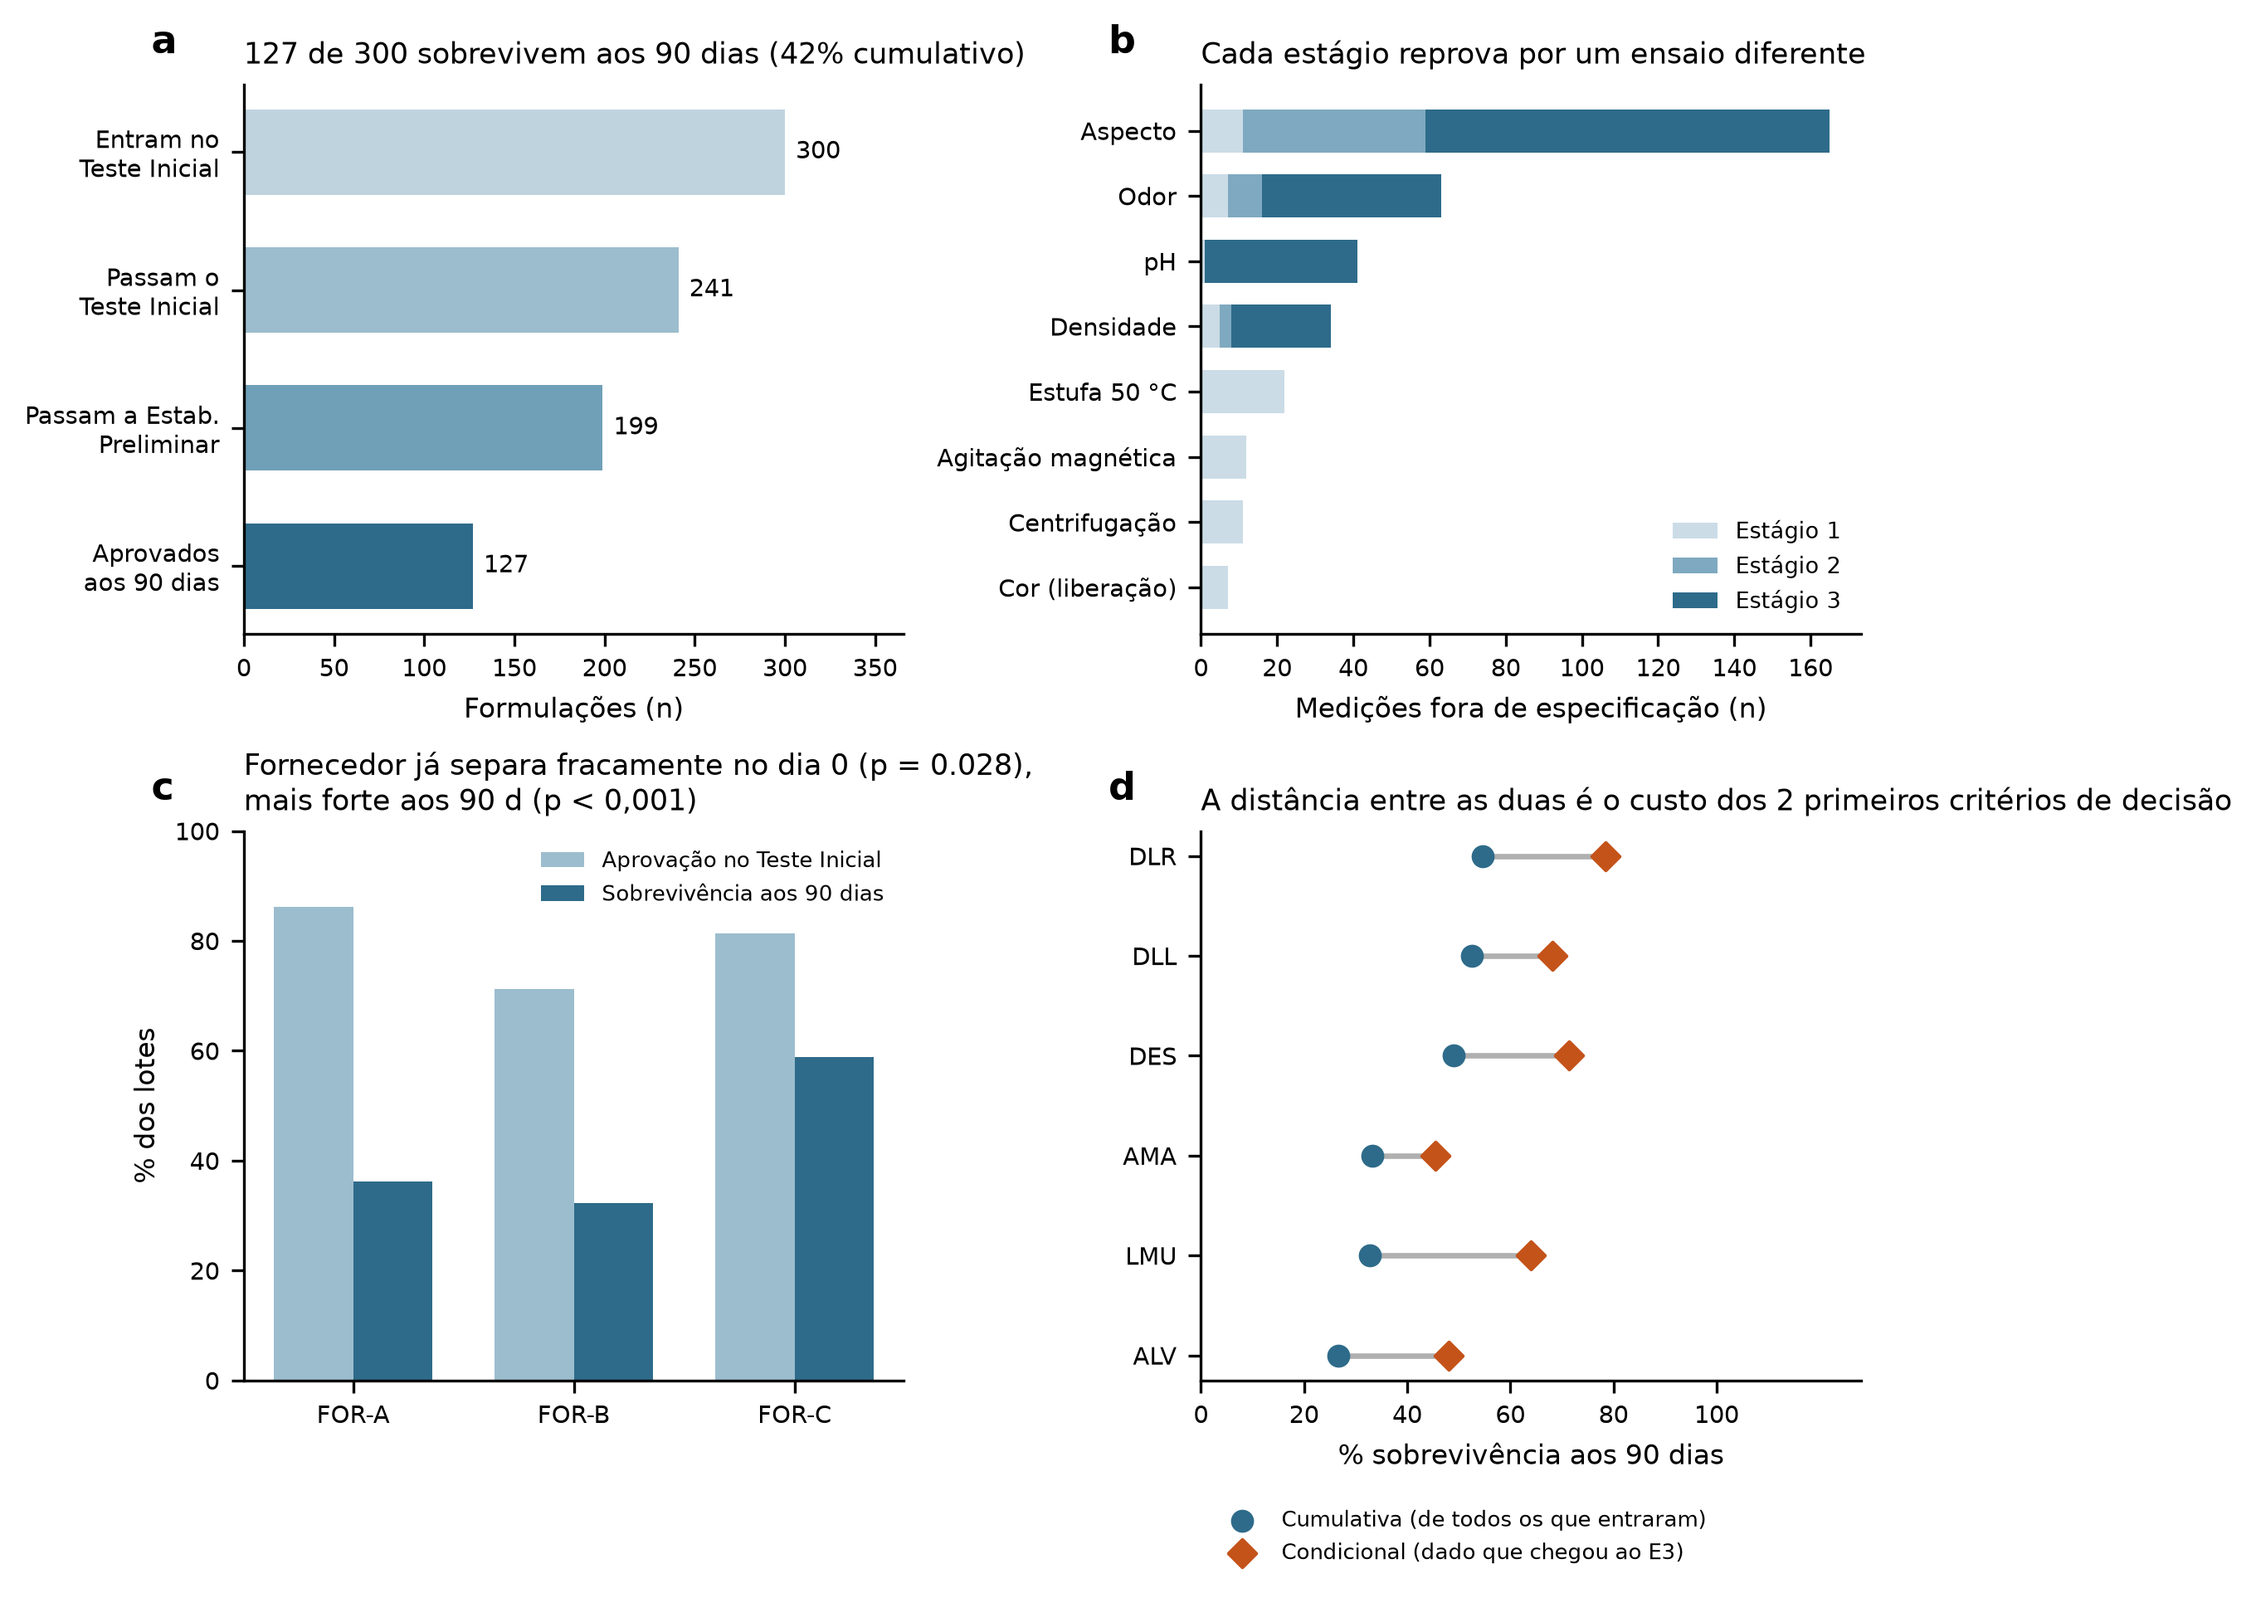
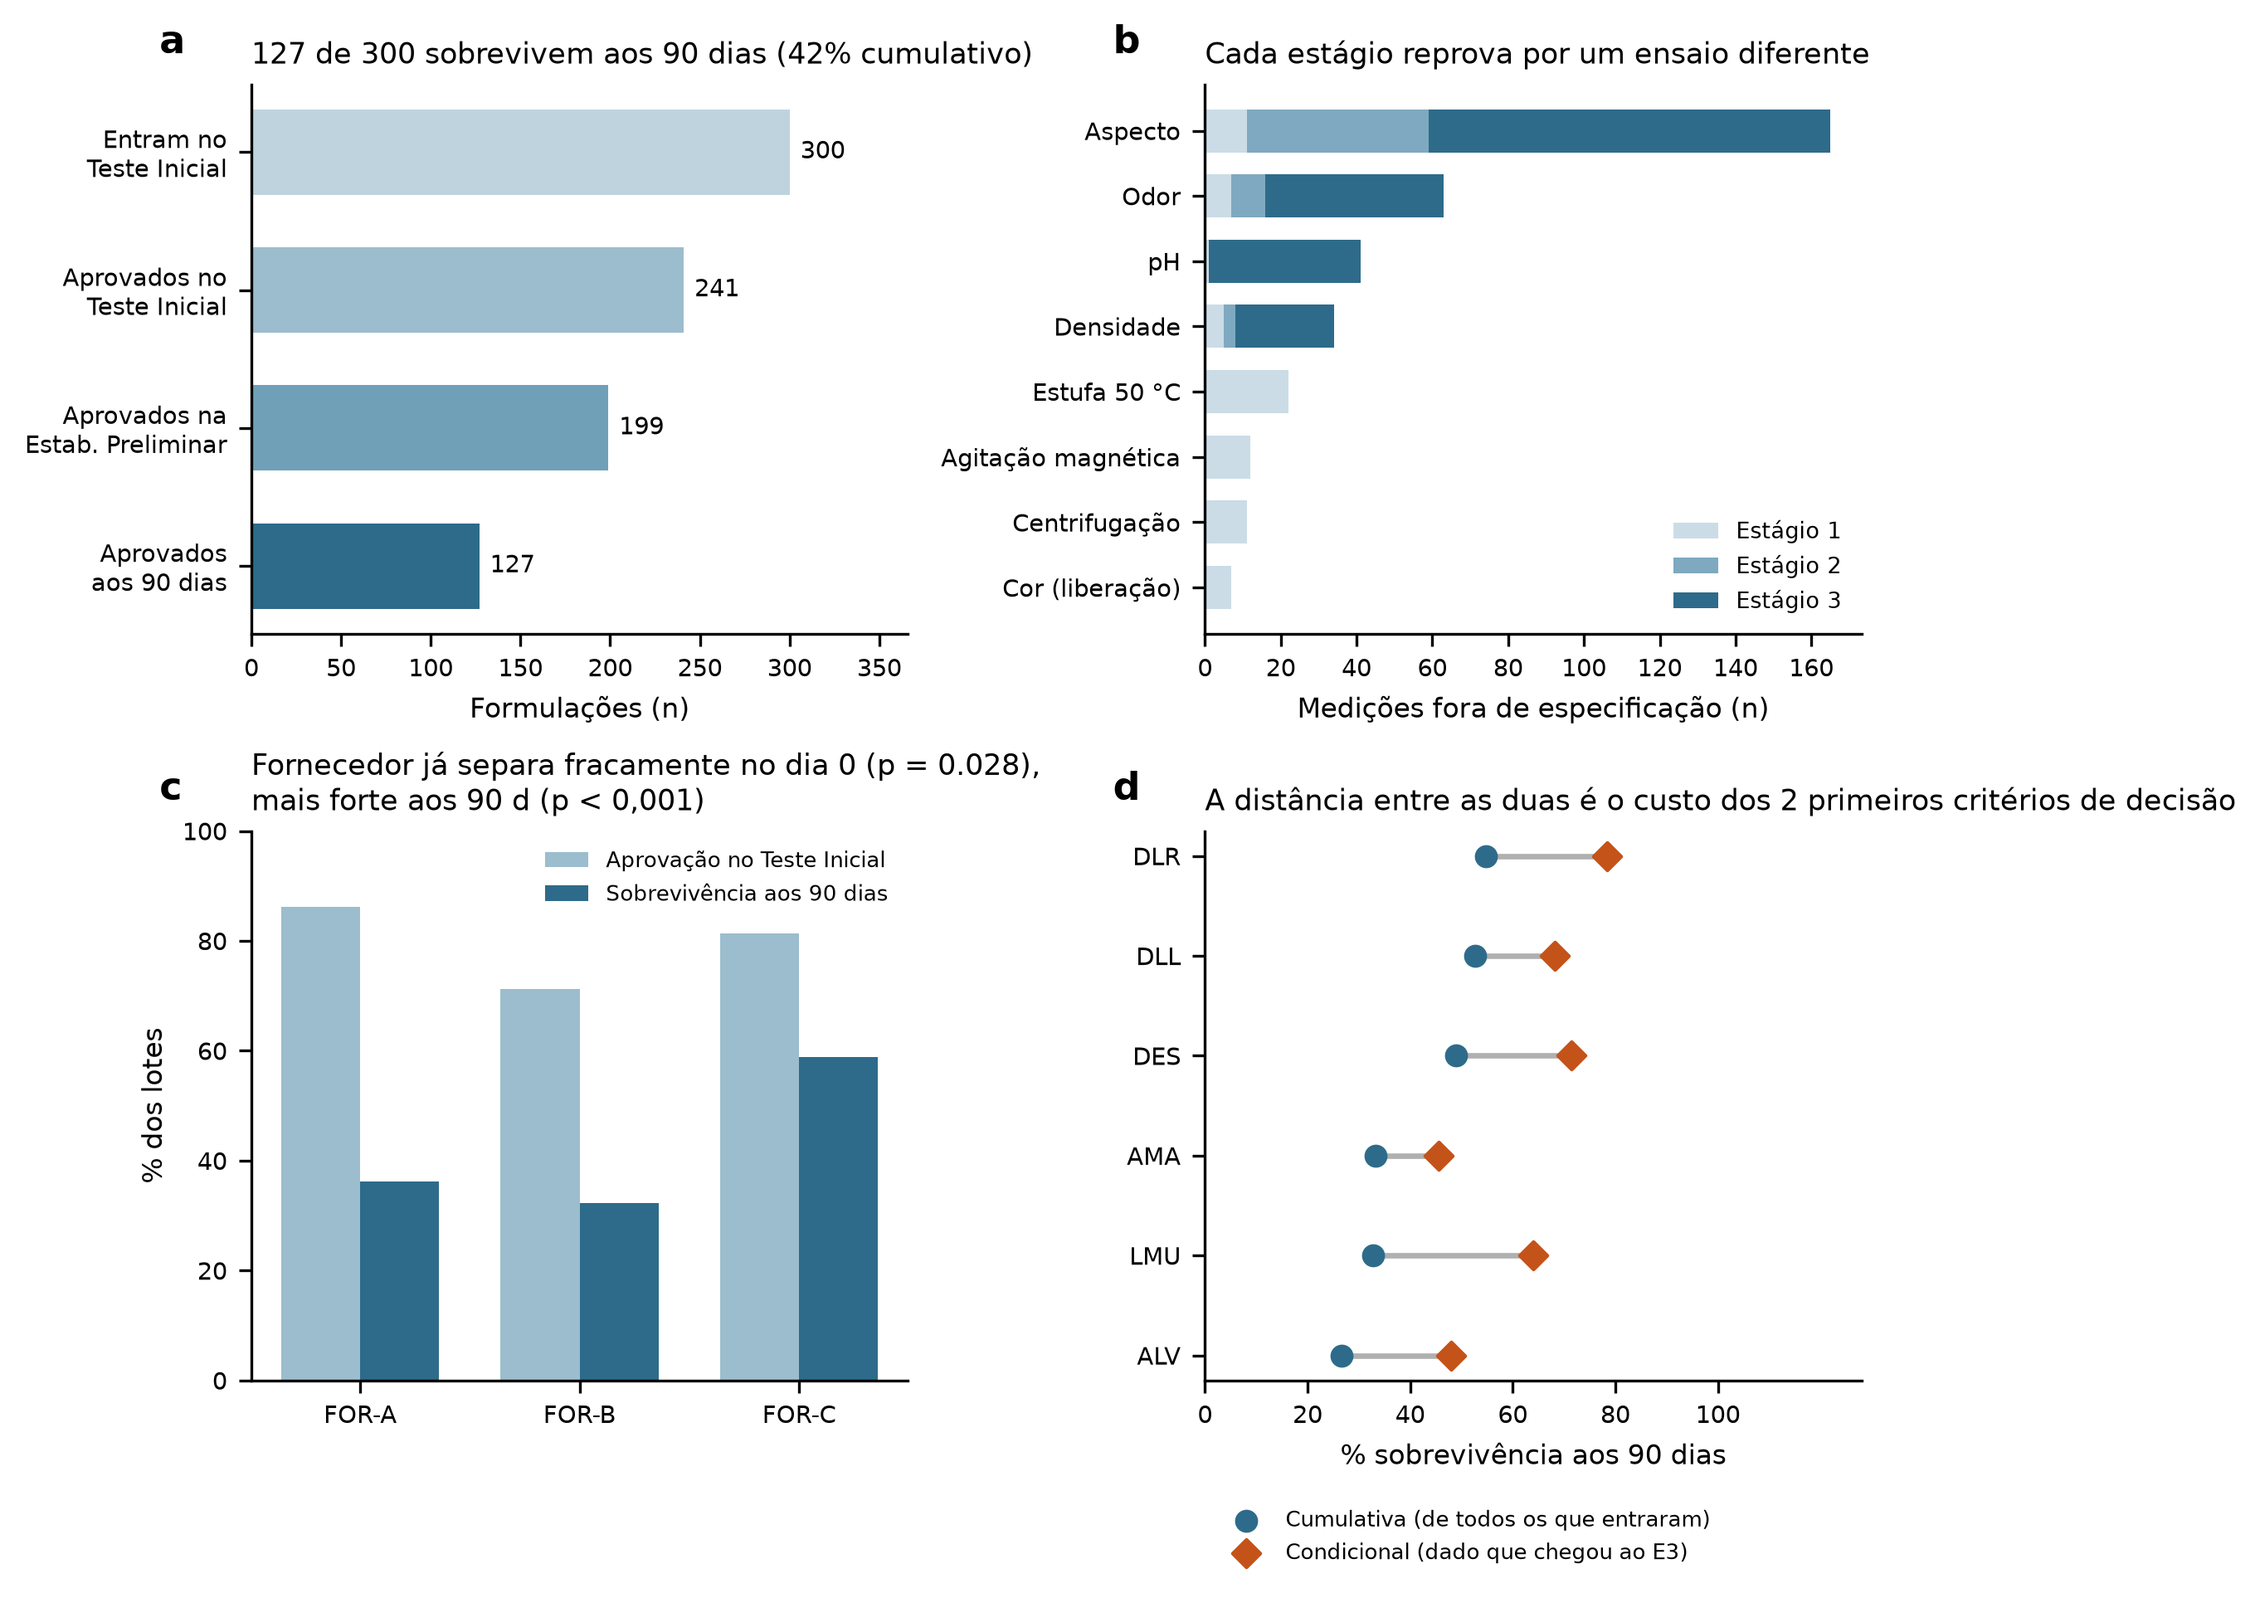
corrige descricoes da clusterizacao e dos lotes reprovados e rótulos do funil

diff --git a/src/05_clusterizacao.py b/src/05_clusterizacao.py
@@ -6,8 +6,8 @@ Pergunta de negocio (ICH Q1D, bracketing e matrixing): produtos que degradam
 DA MESMA FORMA podem compartilhar protocolo de estabilidade, independente do
 nome comercial da familia. Este script descobre esses grupos sem usar o rotulo
 de familia, e depois testa se o agrupamento encontrado coincide com a familia
-declarada ou corta por ela, o que e o resultado interessante em qualquer um
-dos dois casos.
+declarada ou junta familias diferentes, o que e o resultado interessante em
+qualquer um dos dois casos.
 
 Metodo:
   1. Para cada lote que chegou ao Estagio 3 (199), ajustar a INCLINACAO
@@ -21,9 +21,10 @@ Metodo:
      de robustez: dois metodos diferentes devem concordar em estrutura, nao
      necessariamente em rotulo.
   4. Medir concordancia com a familia DECLARADA via Adjusted Rand Index (ARI):
-     ARI alto = os grupos descobertos sao so as familias; ARI baixo = o
-     agrupamento corta as familias, que e o resultado que sustenta o
-     bracketing (dois produtos de familias diferentes que degradam igual).
+     ARI alto = os grupos descobertos sao so as familias; ARI baixo = os
+     grupos nao seguem as familias. A tabela cluster x familia mostra se eles
+     juntam familias diferentes (o resultado que sustenta o bracketing: dois
+     produtos de familias diferentes que degradam igual) ou dividem uma familia.
 
 Saidas:
   output/clusterizacao_resultado.csv   (lote, familia, cluster)
@@ -118,7 +119,7 @@ ari_metodos = adjusted_rand_score(kmeans.labels_, labels_ward)
 resumo["ari_kmeans_vs_ward"] = round(float(ari_metodos), 3)
 
 # =========================================================================
-# 4. O cluster descoberto coincide com a familia DECLARADA, ou corta por ela?
+# 4. O cluster descoberto coincide com a familia DECLARADA, ou junta familias diferentes?
 # =========================================================================
 ari_familia = adjusted_rand_score(vetores.produto_familia, kmeans.labels_)
 resumo["ari_cluster_vs_familia_declarada"] = round(float(ari_familia), 3)
@@ -200,7 +201,7 @@ cbar.set_label("z-score do centroide", fontsize=6.5)
 axc.set_title("Assinatura de cada cluster (padronizada)", loc="left")
 panel_letter(axc, "c")
 
-# (d) cluster x familia declarada: mostra se corta a familia ou nao
+# (d) cluster x familia declarada: mostra se o cluster junta familias ou divide uma
 tab_pct = tab_familia.div(tab_familia.sum(axis=1), axis=0) * 100
 esq = np.zeros(k_escolhido)
 cores_fam = plt.cm.tab10(np.linspace(0, 1, tab_familia.shape[1]))
@@ -210,9 +211,14 @@ for i, fam in enumerate(tab_familia.columns):
     esq += tab_pct[fam].to_numpy()
 axd.set_yticks(range(k_escolhido)); axd.set_yticklabels([f"Cluster {c}" for c in range(k_escolhido)])
 axd.set_xlabel("% dos lotes do cluster, por família declarada")
-axd.set_title(f"ARI cluster×família = {ari_familia:.2f} "
-             f"({'clusters ≈ famílias' if ari_familia > 0.4 else 'corta as famílias declaradas'})",
-             loc="left")
+familias_divididas = int((tab_familia.gt(0).sum(axis=0) > 1).sum())  # familias presentes em >1 cluster
+if ari_familia > 0.4:
+    txt_famil = "clusters ≈ famílias"
+elif familias_divididas == 0:
+    txt_famil = "nenhuma família é dividida"
+else:
+    txt_famil = f"{familias_divididas} família(s) dividida(s)"
+axd.set_title(f"ARI cluster×família = {ari_familia:.2f} ({txt_famil})", loc="left")
 axd.legend(frameon=False, loc="upper center", bbox_to_anchor=(0.5, -0.28), ncol=3, fontsize=6.0)
 panel_letter(axd, "d")
 

diff --git a/src/03_analise_funil.py b/src/03_analise_funil.py
@@ -159,8 +159,8 @@ def panel_letter(ax, letra):
 fig, ((axa, axb), (axc, axd)) = plt.subplots(2, 2, figsize=(7.6, 6.4))
 
 # (a) atrito do funil
-etapas = ["Entram no\nTeste Inicial", "Passam o\nTeste Inicial",
-          "Passam a Estab.\nPreliminar", "Aprovados\naos 90 dias"]
+etapas = ["Entram no\nTeste Inicial", "Aprovados no\nTeste Inicial",
+          "Aprovados na\nEstab. Preliminar", "Aprovados\naos 90 dias"]
 vals = [N0, n_e1, n_e2, n_sobrev]
 cores_barra = ["#BFD3DE", "#9CBDCD", "#6FA0B8", "#2E6B8A"]
 yy = np.arange(4)[::-1]

diff --git a/README.md b/README.md
@@ -77,13 +77,13 @@ Esperar 30 ou 37 dias não melhora a previsão: a AUC fica entre 0,77 e 0,82 nos
 
 ### Clusterização
 
-Agrupando os 199 lotes que chegaram ao Estágio 3 pela assinatura de degradação (a inclinação de pH, amarelecimento e escurecimento em cada condição), o K-means encontra k = 2 (silhueta 0,39, confirmado por clusterização hierárquica Ward: ARI = 1,0 entre os dois métodos). O agrupamento corta as 6 famílias declaradas (ARI = 0,26 contra a família nominal): um cluster reúne Alvejante e Desinfetante, de química oxidante e mais fotossensível, e o outro reúne as quatro famílias à base de tensoativo, mais sensíveis a calor do que a luz.
+Agrupando os 199 lotes que chegaram ao Estágio 3 pela assinatura de degradação (a inclinação de pH, amarelecimento e escurecimento em cada condição), o K-means encontra k = 2 (silhueta 0,39, confirmado por clusterização hierárquica Ward: ARI = 1,0 entre os dois métodos). O agrupamento não segue as 6 famílias declaradas (ARI = 0,26 contra a família nominal), mas também não divide nenhuma: cada família cai inteira em um cluster, e os clusters juntam famílias diferentes. Um cluster reúne Alvejante e Desinfetante, mais fotossensíveis (a inclinação média do amarelecimento sob luz solar é cerca de 30% maior) e com menor deriva térmica de cor (cerca de 20% menor na estufa); o outro reúne as quatro demais famílias.
 
 ![Clusterização por assinatura de degradação](output/figures/04_clusterizacao.png)
 
 ### Qualidade do dado (Passo 2)
 
-Dos 300 lotes, a regra reconstruída a partir da `spec_master` reproduz a disposição registrada em 292 (as 8 divergências restantes vêm todas de medição fisicamente impossível). Dez lotes foram reprovados indevidamente por erro de laboratório: a sonda PH-02 leu +0,26 de pH acima do real entre setembro e novembro de 2024. O kappa quadrático entre analistas ficou entre 0,84 e 0,92.
+Dos 300 lotes, a regra reconstruída a partir da `spec_master` reproduz a disposição registrada em 292 (as 8 divergências restantes vêm todas de medição fisicamente impossível). Dez lotes foram reprovados indevidamente por erro de laboratório simulado (oito por casa decimal deslocada, um por replicata trocada e um por desvio da sonda de pH). Separadamente, a sonda PH-02 leu +0,26 de pH acima do real entre setembro e novembro de 2024: o teste mensal não sinalizou nenhum mês isolado, e a varredura em janelas de 3 meses recuperou o intervalo. O kappa quadrático entre analistas ficou entre 0,84 e 0,92.
 
 ![Viés de instrumento: pH registrado por sonda ao longo do tempo, com a janela de deriva destacada](output/figures/01_vies_instrumento.png)
 
@@ -107,7 +107,7 @@ Justificativa completa de cada item em [`relatorio/relatorio_tecnico.md`](relato
 - **Gap de otimismo entre divisão temporal e aleatória:** AUC 0,821 na temporal (a métrica que vale) contra 0,824 na aleatória em H0, mas a diferença cresce em H1 e H2 (0,80/0,77 temporal contra 0,89/0,88 aleatória). A causa mais provável é a revisão de spec de 2024-10-01, que desloca a distribuição do alvo entre treino e teste; não foi investigada formalmente.
 - **Nenhum intervalo de confiança nas métricas do Passo 4**: são estimativas pontuais em n = 44 de teste. Um bootstrap ou repetição da divisão temporal com folds deslizantes daria a incerteza; não foi feito nesta versão.
 - **Limiar de custo (4:1) é arbitrário**, escolhido para ilustrar o método; calibração contra custo real de câmara climática ou de investigação de bancada fica para uma versão futura.
-- **Clusterização usa só 12 features de inclinação** (pH, amarelecimento, escurecimento × 4 condições); densidade e aspecto/odor não entraram no vetor; um vetor mais rico poderia revelar mais que 2 clusters.
+- **Clusterização usa só 12 features de inclinação** (pH, amarelecimento, escurecimento × 4 condições); densidade e aspecto/odor não entraram no vetor; um vetor mais rico poderia revelar mais que 2 clusters. Os dois grupos também refletem coeficientes de fotossensibilidade e de deriva térmica atribuídos a cada família no gerador de dados (estimativas de engenharia, sem fonte documentada em `FONTES.md`): o resultado valida o método, que recupera uma estrutura conhecida, mas não confirma uma explicação química.
 - **O que não foi avaliado:** cartas de controle e OOT sistemático (Passo 2 já mede candidatos, mas sem carta formal), SHAP em vez de importância por permutação, modelo de shelf life por regressão linear mista, dados de matéria-prima e genealogia de lote, todos na lista de Próximos Passos abaixo.
 
 ## Próximos passos

diff --git a/relatorio/relatorio_tecnico.md b/relatorio/relatorio_tecnico.md
@@ -117,8 +117,8 @@ O script tentou, nesta ordem:
 | | n | % |
 |---|---|---|
 | Entram no Teste Inicial | 300 | - |
-| Passam o Estágio 1 | 241 | 80,3% |
-| Passam a Estabilidade Preliminar | 199 | 66,3% |
+| Aprovados no Estágio 1 | 241 | 80,3% |
+| Aprovados na Estabilidade Preliminar | 199 | 66,3% |
 | Sobrevivem aos 90 dias | 127 | **42,3% cumulativo** / **63,8% condicional** |
 
 Cumulativa é sobreviventes dividido por todos que entraram (a taxa de negócio: "de cada 100 formulações que começo, quantas terminam?"). Condicional é sobreviventes dividido por quem chegou ao Estágio 3 (a taxa que importa para o modelo do Passo 4, porque ele só vê quem chegou lá, o funil já filtrou o resto antes).
@@ -214,16 +214,16 @@ Para os 199 lotes que chegaram ao Estágio 3, cada um recebe um vetor de 12 núm
 
 Silhueta média por k testado (K-means, 2 a 8): pico em **k = 2 (silhueta 0,387)**. Uma clusterização hierárquica (Ward) sobre o mesmo vetor, cortada em 2 grupos, concorda completamente com o K-means (ARI = 1,0 entre os dois métodos). Dois algoritmos com lógicas de agrupamento diferentes convergindo na mesma partição é evidência de que a estrutura encontrada é real, não um artefato de um método específico.
 
-### 6.3 O agrupamento corta as famílias declaradas
+### 6.3 O agrupamento junta famílias declaradas diferentes
 
-ARI entre o cluster descoberto e a família comercial declarada: **0,26**, moderado-baixo. Ou seja, o agrupamento não reproduz as 6 famílias comerciais.
+ARI entre o cluster descoberto e a família comercial declarada: **0,26**, moderado-baixo. O valor é baixo porque dois clusters não podem reproduzir seis rótulos, e não porque famílias sejam divididas: cada família cai inteira em um cluster (tabela abaixo). O agrupamento não reproduz as 6 famílias comerciais, mas junta famílias diferentes.
 
 | Cluster | n | Composição |
 |---|---|---|
 | 0 | 60 | Alvejante sem Cloro, Desinfetante Quaternário |
 | 1 | 139 | Amaciante, Detergente Lava-Louças, Detergente para Roupas, Limpador Multiuso |
 
-O Cluster 0 reúne as duas famílias de química oxidante/biocida (alvejante e desinfetante quaternário) e tem assinatura mais fotossensível e menos termossensível que o Cluster 1. Isso é quimicamente plausível, agentes oxidantes tendem a ser mais sensíveis a fotólise, e é o tipo de achado que justifica agrupar produtos de famílias comerciais diferentes que compartilham mecanismo de degradação para fins de bracketing/matrixing (ICH Q1D): testar menos condições, mas testar as famílias certas juntas.
+O Cluster 0 reúne o alvejante e o desinfetante quaternário e tem assinatura mais fotossensível e menos termossensível que o Cluster 1: a inclinação média do amarelecimento sob luz solar é cerca de 30% maior (0,068 contra 0,052) e cerca de 20% menor na estufa (0,020 contra 0,025). No gerador de dados, essas duas famílias recebem os maiores coeficientes de fotossensibilidade (1,55 e 1,40) e os menores de deriva térmica de cor (0,0050 e 0,0055); são estimativas de engenharia, sem fonte documentada em `FONTES.md`. A clusterização portanto recupera uma estrutura conhecida, o que valida o método, mas não confirma uma explicação química (o desinfetante quaternário é um tensoativo catiônico biocida, não um oxidante; só o alvejante sem cloro é de química oxidante). Com dados reais, seria o tipo de achado que justifica agrupar produtos de famílias comerciais diferentes que compartilham mecanismo de degradação para fins de bracketing/matrixing (ICH Q1D): testar menos condições, mas testar as famílias certas juntas.
 
 ### 6.4 Limitação
 
